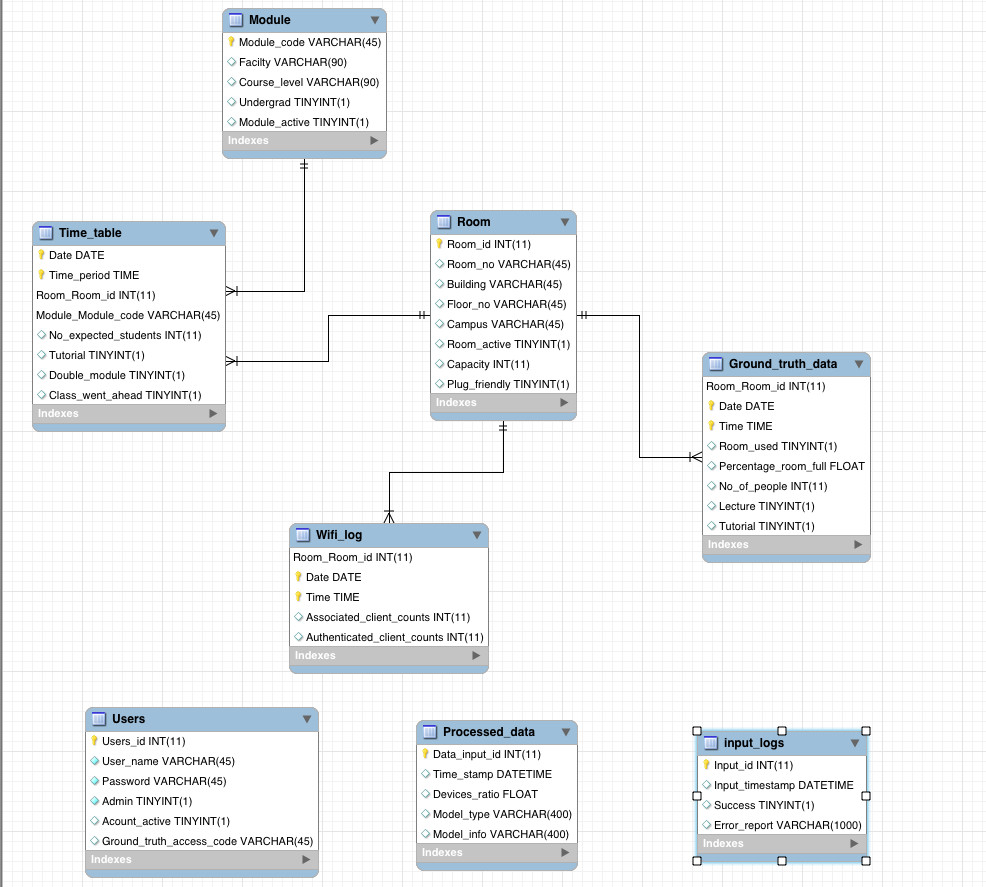
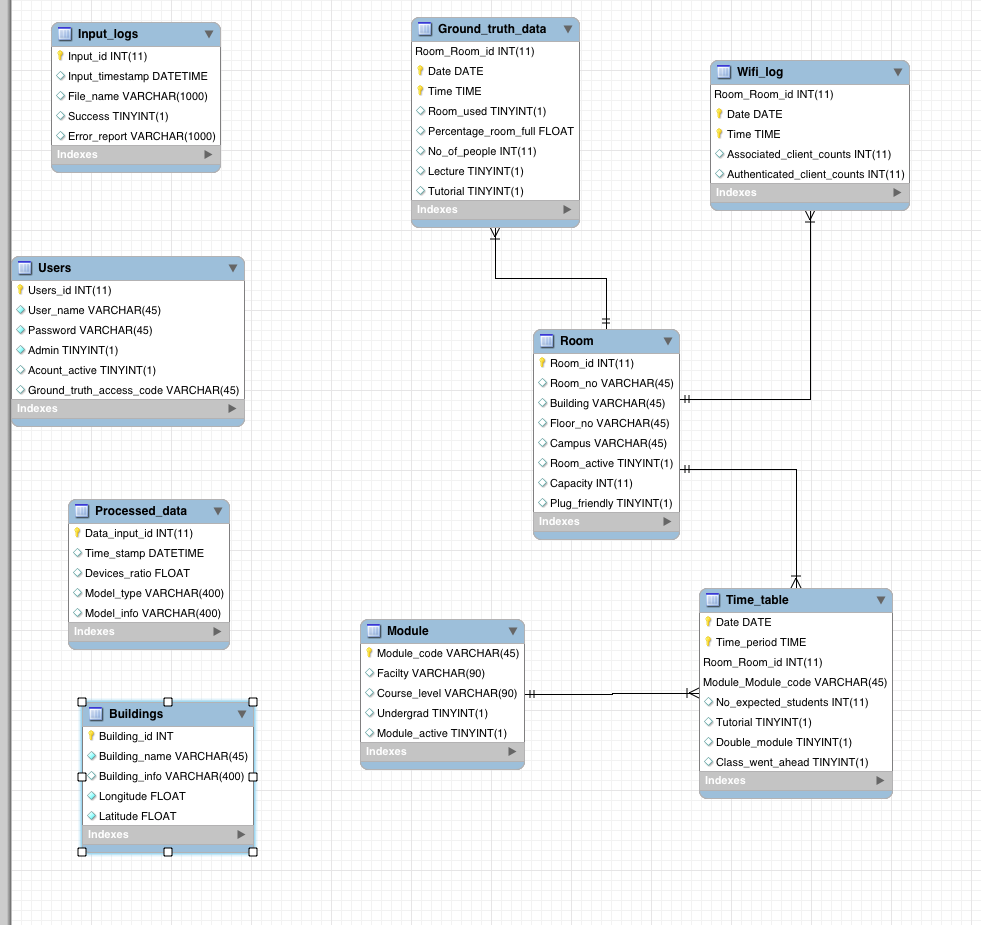
Update made to database schema to include building table

diff --git a/server/Csi42001Vm1ServerFiles/src/main/resources/templates/uploadForm.html b/server/Csi42001Vm1ServerFiles/src/main/resources/templates/uploadForm.html
@@ -1,4 +1,4 @@
-<html xmlns:th="http://www.thymeleaf.org">
+<html>
 <body>
 
 	<div th:if="${message}">
